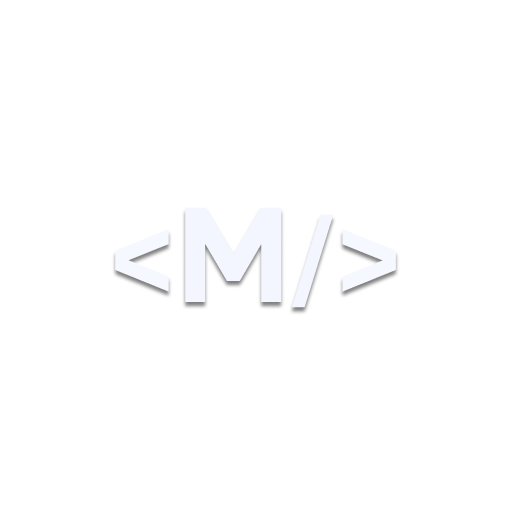
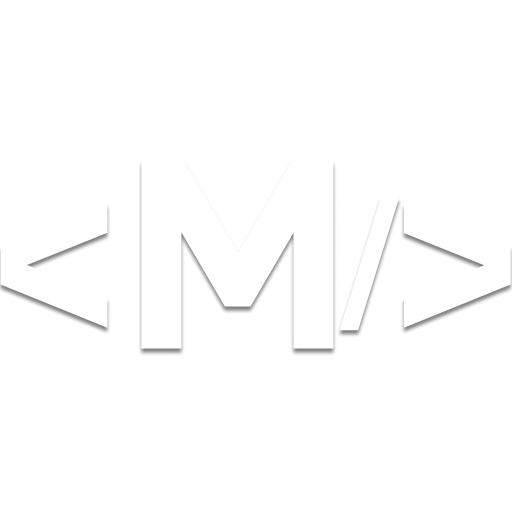
Enhance: Hero Section Performance, GSAP Scroll, and Branding Updates

diff --git a/src/routes/overview-sections/Hero/HeroSection.svelte b/src/routes/overview-sections/Hero/HeroSection.svelte
@@ -1,7 +1,17 @@
 <script lang="ts">
 	import gsap from 'gsap';
+	// Import and register the ScrollTrigger plugin
+	import { ScrollTrigger } from 'gsap/ScrollTrigger';
+	// Remove direct plugin registration here
+
 	import { initGsapScroll } from '$lib/animations/scroll.svelte';
 	import { onMount, onDestroy } from 'svelte';
+	import { browser } from '$app/environment';
+
+	// Register plugin only in browser environment
+	if (browser) {
+		gsap.registerPlugin(ScrollTrigger);
+	}
 
 	// Types for injectable data
 	interface HeroContent {
@@ -20,7 +30,7 @@
 	const heroInjectable: HeroContent = {
 		titleFirstHalf: 'MODERN WEB',
 		titleSecondHalf: 'DEVELOPMENT',
-		subtitle: 'your style, our expertise'
+		subtitle: 'your vision, our expertise'
 	};
 
 	const benefitsInjectable: Benefit[] = [
@@ -75,6 +85,7 @@
 				fastScrollEnd: true,
 				preventOverlaps: true,
 				onEnter: () => {
+					// Clear any inline styles applied by GSAP when the ScrollTrigger enters
 					gsap.set([topPanel, bottomPanel], { clearProps: 'all' });
 				}
 			}
@@ -84,19 +95,22 @@
 	function setupAnimations() {
 		doorTimeline = createDoorTimeline();
 
-		// Create the animation sequence
+		// Pre-define will-change properties for smoother performance
+		gsap.set([topPanel, bottomPanel], { willChange: 'transform' });
+		gsap.set(heroSection, { willChange: 'filter, transform' });
+		gsap.set(heroBackground, { willChange: 'opacity, transform' });
+
+		// Create the animation sequence for the panels and background
 		doorTimeline
 			.to(topPanel, {
 				yPercent: -100,
-				...ANIMATION_CONFIG,
-				willChange: 'transform'
+				...ANIMATION_CONFIG
 			})
 			.to(
 				bottomPanel,
 				{
 					yPercent: 100,
-					...ANIMATION_CONFIG,
-					willChange: 'transform'
+					...ANIMATION_CONFIG
 				},
 				'<'
 			)
@@ -118,12 +132,24 @@
 					...ANIMATION_CONFIG
 				},
 				'<'
-			);
+			)
+			// Clean up "will-change" properties after the animation completes
+			.add(() => {
+				gsap.set([topPanel, bottomPanel, heroSection, heroBackground], {
+					willChange: 'auto'
+				});
+			});
 	}
 
 	let gsapContext: gsap.Context;
 	onMount(() => {
+		// Initialize any custom scroll functionality
 		initGsapScroll();
+
+		// Normalize scroll behavior for consistent performance across devices/browsers
+		ScrollTrigger.normalizeScroll();
+
+		// Create a scoped GSAP context to safely target the heroSection
 		gsapContext = gsap.context(() => {
 			setupAnimations();
 		}, heroSection);
@@ -141,8 +167,7 @@
 </script>
 
 <section class="hero" bind:this={heroSection} aria-label="Hero Section" role="banner">
-	<!-- todo: animate the text with cubic beszier modern -->
-
+	<!-- Animated background SVG -->
 	<svg
 		class="hero__background"
 		bind:this={heroBackground}
@@ -219,28 +244,25 @@
 			'top'
 			'bottom';
 		place-content: center;
-		block-size: 100svh;
+		block-size: 100dvh;
 		inline-size: 100%;
 		overflow: hidden;
 		overscroll-behavior: contain;
 		perspective: 1000px;
 		transform-style: preserve-3d;
-		will-change: transform;
 		contain: layout size;
 
 		&__background {
 			position: absolute;
 			inset: 0;
 			z-index: -1;
-			block-size: 100vh;
-			inline-size: 100vw;
+			block-size: 100%;
+			inline-size: 100%;
 			color: get-light-dark('500', '600', 0.38, 1);
 			mix-blend-mode: soft-light;
 			object-fit: cover;
 			opacity: 0.5;
-			will-change: opacity, transform;
 			contain: strict;
-			transform: translateZ(0);
 		}
 
 		&__panel {
@@ -249,7 +271,6 @@
 			block-size: 100%;
 			inline-size: 100%;
 			transform: translateY(0);
-			will-change: transform;
 			contain: content;
 
 			&--top {
@@ -307,7 +328,6 @@
 				align-items: center;
 				justify-content: space-between;
 				inline-size: 100%;
-				list-style: none;
 				@include apply-page-max-inline;
 			}
 		}

diff --git a/src/lib/scss/abstracts/colors/_colors-typography.scss b/src/lib/scss/abstracts/colors/_colors-typography.scss
@@ -2,10 +2,10 @@
 @use 'colors-functions' as cf;
 
 $typography-color-scale: (
-	'primary': cf.get-light-dark('950', '50', 0.87, 0.8),
-	'secondary': cf.get-light-dark('950', '50', 0.6, 0.7),
-	'tertiary': cf.get-light-dark('950', '50', 0.6, 0.7),
-	'disabled': cf.get-light-dark('950', '50', 0.38, 0.5),
+	'primary': cf.get-light-dark('900', '50', 0.87, 0.8),
+	'secondary': cf.get-light-dark('900', '50', 0.6, 0.7),
+	'tertiary': cf.get-light-dark('900', '50', 0.6, 0.7),
+	'disabled': cf.get-light-dark('900', '50', 0.38, 0.5),
 	'link': cf.get-light-dark('link', 'link', 0.87, 0.8),
 	'error': cf.get-light-dark('error', 'error', 0.87, 0.8)
 );

diff --git a/src/lib/scss/base/shadows/_shadows.scss b/src/lib/scss/base/shadows/_shadows.scss
@@ -35,7 +35,7 @@
 ----------------------------------------------------- */
 // Configuration map for text pop-up shadow
 $text-pop-up-config: (
-	base-color: cf.get-light-dark('500', '900'),
+	base-color: cf.get-light-dark('700', '900'),
 	steps: 6,
 	start-offset: 0.01em,
 	increment: 0.01em,

diff --git a/src/routes/+layout.svelte b/src/routes/+layout.svelte
@@ -8,7 +8,7 @@
 
 <!-- todo: add a personality web questionaire -->
 <svelte:head></svelte:head>
-<!-- <Header /> -->
+<Header />
 
 <slot />
 
